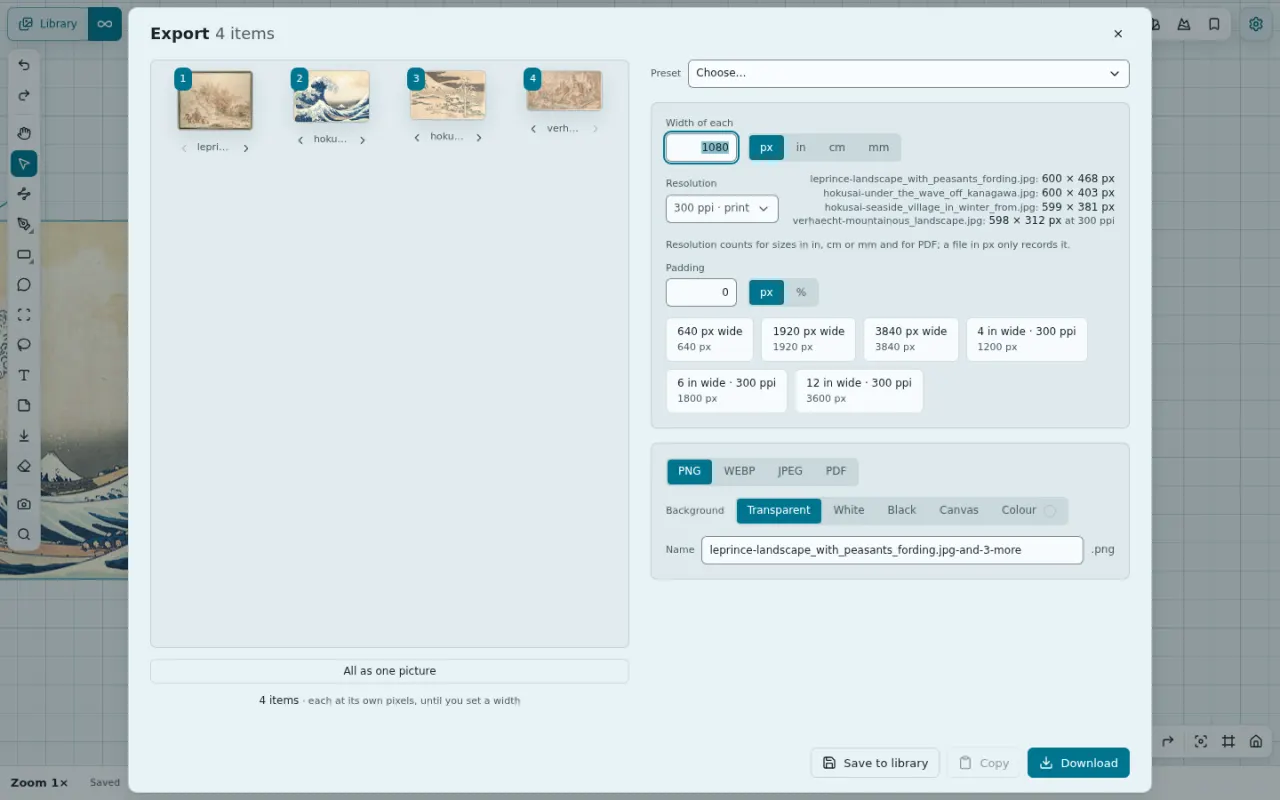
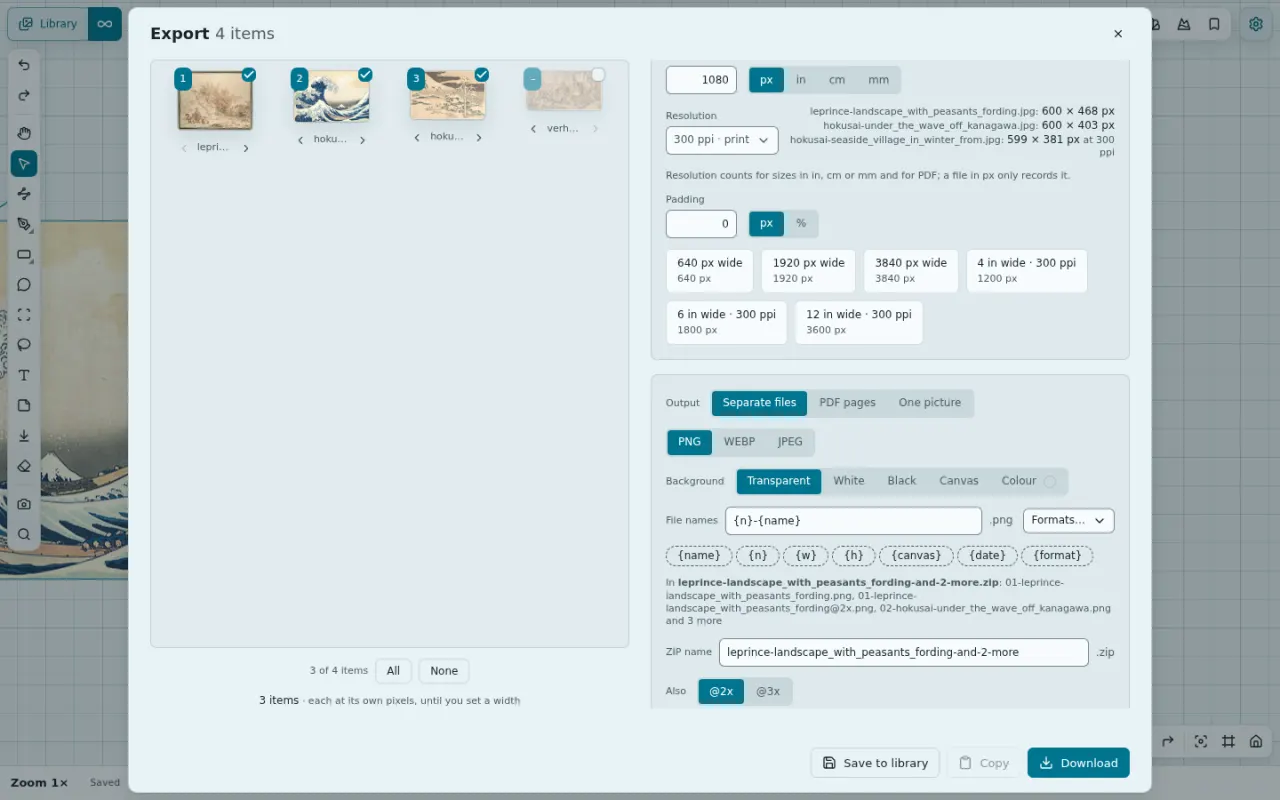
fix(export): a click anywhere on an item ticks it, Ctrl+click several, Shift+click a run; the two Export pictures retaken (v0.56.35)

diff --git a/src/ui/export-dialog.ts b/src/ui/export-dialog.ts
@@ -308,7 +308,7 @@ function openDialog(deps: ExportDeps, again = false): void {
       thumbs = [...dlg.querySelectorAll<HTMLCanvasElement>("[data-ex-thumb]")];
       return;
     }
-    box.innerHTML = ts.map((x, i) => `<figure class="ex-mini${out.has(raw[i]!) ? " is-out" : ""}" data-mini="${i}" tabindex="0" draggable="true" title="Drag to change its place; Space includes or leaves it out"><div class="ex-frame" data-ex-frame style="--shape:${Math.min(Math.max(x.ratio, 0.2), 5)}"><canvas class="ex-thumb" data-ex-thumb aria-label="Preview of ${esc(itemName(i))}"></canvas><b class="ex-page" data-ex-page></b><input type="checkbox" class="ex-tick" data-tick${out.has(raw[i]!) ? "" : " checked"} aria-label="Include ${esc(itemName(i))}"></div><figcaption><button type="button" class="ex-move" data-move="-1" aria-label="Move ${esc(itemName(i))} earlier" ${i === 0 ? "disabled" : ""}>${ICONS.chevronLeft}</button><button type="button" class="ex-caption" data-rename title="Rename this file: ${esc(itemName(i))}">${esc(itemName(i))}</button><button type="button" class="ex-move" data-move="1" aria-label="Move ${esc(itemName(i))} later" ${i === ts.length - 1 ? "disabled" : ""}>${ICONS.chevronRight}</button></figcaption></figure>`).join("");
+    box.innerHTML = ts.map((x, i) => `<figure class="ex-mini${out.has(raw[i]!) ? " is-out" : ""}" data-mini="${i}" tabindex="0" draggable="true" title="Click to include it or leave it out (Ctrl+click several, Shift+click a run); drag to change its place"><div class="ex-frame" data-ex-frame style="--shape:${Math.min(Math.max(x.ratio, 0.2), 5)}"><canvas class="ex-thumb" data-ex-thumb aria-label="Preview of ${esc(itemName(i))}"></canvas><b class="ex-page" data-ex-page></b><input type="checkbox" class="ex-tick" data-tick tabindex="-1"${out.has(raw[i]!) ? "" : " checked"} aria-label="Include ${esc(itemName(i))}"></div><figcaption><button type="button" class="ex-move" data-move="-1" aria-label="Move ${esc(itemName(i))} earlier" ${i === 0 ? "disabled" : ""}>${ICONS.chevronLeft}</button><button type="button" class="ex-caption" data-rename title="Rename this file: ${esc(itemName(i))}">${esc(itemName(i))}</button><button type="button" class="ex-move" data-move="1" aria-label="Move ${esc(itemName(i))} later" ${i === ts.length - 1 ? "disabled" : ""}>${ICONS.chevronRight}</button></figcaption></figure>`).join("");
     renumber();
     thumbs = [...box.querySelectorAll<HTMLCanvasElement>("[data-ex-thumb]")];
   };
@@ -826,11 +826,25 @@ function openDialog(deps: ExportDeps, again = false): void {
     renumber();
     refresh();
   };
-  dlg.querySelector("[data-ex-minis]")?.addEventListener("change", (e) => {
-    const box = (e.target as HTMLElement).closest<HTMLInputElement>("[data-tick]");
-    const i = Number(box?.closest<HTMLElement>("[data-mini]")?.dataset["mini"]);
-    if (!box || !Number.isInteger(i)) return;
-    setOut(i, !box.checked);
+  // A click anywhere on a picture ticks or unticks it (Ctrl or ⌘ as well, for one more); Shift+click sets every picture from the last one
+  // clicked to this one as the last one is now. The arrows, the name and dragging keep their own jobs.
+  let anchor = -1;
+  const minisBox = dlg.querySelector<HTMLElement>("[data-ex-minis]");
+  minisBox?.addEventListener("mousedown", (e) => {
+    if (e.shiftKey && (e.target as HTMLElement).closest("[data-mini]")) e.preventDefault(); // (no text selected by a Shift+click)
+  });
+  minisBox?.addEventListener("click", (e) => {
+    const el = e.target as HTMLElement;
+    const fig = el.closest<HTMLElement>("[data-mini]");
+    if (!fig || el.closest("[data-move], [data-rename], .ex-caption-edit")) return;
+    const i = Number(fig.dataset["mini"]);
+    if (e.shiftKey && anchor >= 0 && anchor < raw.length) {
+      const off = out.has(raw[anchor]!);
+      for (let k = Math.min(anchor, i); k <= Math.max(anchor, i); k++) setOut(k, off);
+    } else {
+      setOut(i, !out.has(raw[i]!));
+      anchor = i;
+    }
     ticked();
   });
   dlg.querySelector("[data-ex-minis]")?.addEventListener("keydown", (e) => {

diff --git a/tests/e2e/sheets.spec.ts b/tests/e2e/sheets.spec.ts
@@ -697,11 +697,17 @@ test("Export… of several sheets: each at the width chosen with its own shape, 
   expect(new Set(names).size, "a file for each sheet, named by the pattern with its size").toBe(2);
   expect(names.some((n) => n!.endsWith("600x400.png")) && names.some((n) => n!.endsWith("600x1200.png"))).toBe(true);
   // one left out without leaving the dialog: the other leaves alone, as a file of its own
-  await dlg.locator('[data-mini="1"] [data-tick]').uncheck();
+  await dlg.locator('[data-mini="1"] .ex-frame').click(); // (anywhere on the picture, not only its box)
   await expect(dlg.getByTestId("export-count")).toHaveText("1 of 2 items");
+  await expect(dlg.locator('[data-mini="1"] [data-tick]')).not.toBeChecked();
   const [alone] = await Promise.all([p.waitForEvent("download"), dlg.locator('[data-ex="download"]').click()]);
   expect(alone.suggestedFilename()).toMatch(/^01-Sheet \d+-600x\d+\.png$/);
-  await dlg.locator('[data-mini="1"] [data-tick]').check();
+  // Shift+click sets a run like the last one clicked: the first left out too, then All brings them back
+  await dlg.locator('[data-mini="0"] .ex-frame').click();
+  await dlg.locator('[data-mini="1"] .ex-frame').click({ modifiers: ["Shift"] });
+  await expect(dlg.getByTestId("export-count")).toHaveText("0 of 2 items");
+  await dlg.locator('[data-ex="all"]').click();
+  await expect(dlg.getByTestId("export-count")).toHaveText("All 2 items");
   // the same sheets as one PDF: a page each, at the physical size (600 px at 300 ppi is 2 in = 144 pt)
   await dlg.locator('[data-output="pdf"]').click();
   await expect(dlg.locator('[data-ex="copy"]')).toBeDisabled();

diff --git a/src/styles.css b/src/styles.css
@@ -2998,7 +2998,8 @@ dialog.export-dlg.is-busy .ex-foot button { opacity: 0.6; pointer-events: none; 
 .ex-minis { max-height: calc(var(--sp-15) * 5); overflow-y: auto; padding: var(--s-4); }
 /* What goes: a tick on each picture (left out: faded, numbered with a dash), All and None above them, and each one's name, which a click makes a field. */
 .ex-pick { display: flex; align-items: center; justify-content: center; gap: var(--s-4); color: var(--hud-muted); font: var(--font-meta); }
-.ex-tick { position: absolute; top: calc(-1 * var(--s-2)); right: calc(-1 * var(--s-2)); }
+.ex-tick { position: absolute; top: calc(-1 * var(--s-2)); right: calc(-1 * var(--s-2)); pointer-events: none; }
+.ex-mini { cursor: pointer; }
 .ex-mini.is-out .ex-frame { opacity: var(--mark-opacity); }
 .ex-caption { min-width: 0; overflow: hidden; padding: 0; color: inherit; font: inherit; text-overflow: ellipsis; white-space: nowrap; background: transparent; border: 0; cursor: text; }
 .ex-caption:hover { color: var(--hud-fg); }

diff --git a/tests/shots/workspace.shot.ts b/tests/shots/workspace.shot.ts
@@ -231,7 +231,7 @@ test("export-each", async ({ scene: s }) => {
   if (await s.p.getByTestId("export-each").isVisible()) await s.p.getByTestId("export-each").click();
   await s.p.locator("[data-mini]").nth(1).waitFor();
   // (one print left out, the files named by a pattern, and a 2× copy of each for screens that need it)
-  await s.p.locator('[data-mini="3"] [data-tick]').uncheck();
+  await s.p.locator('[data-mini="3"] .ex-frame').click();
   await s.p.locator('[data-ex="name"]').fill("{n}-{name}");
   await s.p.locator('[data-variant="2x"]').click();
   await s.settle(1000);

diff --git a/README.md b/README.md
@@ -1386,7 +1386,7 @@ Export several pictures at once: leave some out, name the files by a pattern, an
 | Again | It opens as you last exported that sheet or selection on this device; *Export again* in the Export menu does it with no dialog. `Enter` exports as last time, `Ctrl+C` copies |
 | Result | Download it, copy it, or keep it in the library |
 | Several items | Selected sheets, or with *Separate files* any selected items (pictures at their own pixels). A balloon and its words are one item, and a connector is none. Otherwise a selection is one picture |
-| What goes | Each item has a tick: untick one to leave it out (it fades and loses its number), or use *All* and *None*; `Space` on an item ticks or unticks it, `Delete` leaves it out. Reorder them with the arrows or by dragging |
+| What goes | Each item has a tick: click an item anywhere to leave it out (it fades and loses its number) or bring it back; `Ctrl`+click (`⌘` on a Mac) several, `Shift`+click to set a whole run like the last one clicked, or use *All* and *None*. `Space` on an item ticks or unticks it, `Delete` leaves it out. Reorder them with the arrows or by dragging |
 | Output | For several items: *Separate files* (one ZIP), *PDF pages* (one PDF, a page for each, in the order shown) or *One picture* (all of them together) |
 | Size of each | For several items: *Same width*, *Same height*, *Longest side*, or *Scale* (1× to 4× each one's size on the canvas, so big things stay bigger) |
 | Names | A pattern of words and tokens: `{name}` (without its file's extension; click an item's name to give it another), `{n}` (01, 02 …), `{w}` and `{h}` (pixels), `{canvas}`, `{date}`, `{format}`. The files it makes are listed under it before you export; two alike get `-2`. The ZIP or PDF has its own name |

diff --git a/CHANGELOG.md b/CHANGELOG.md
@@ -1,5 +1,11 @@
 # Changelog
 
+## 0.56.35 — Ticking export items with a click, Ctrl and Shift (2026-11-11)
+
+- **Fixed:** an item of an export of several was ticked or unticked only by a click right on its small box; a click anywhere on the item does it now.
+- **Added:** `Ctrl`+click (`⌘` on a Mac) ticks or unticks several items one by one, and `Shift`+click sets a whole run of items like the last one clicked.
+- **Changed:** the README's two Export pictures show the dialog as it is now.
+
 ## 0.56.34 — Export names without a second extension (2026-11-11)
 
 - **Fixed:** `{name}` kept the extension of a picture's own file, so an export of `pumpkin.svg` was named `pumpkin.svg.png` (and a ZIP `pumpkin.svg-and-2-more`); it now drops it.
